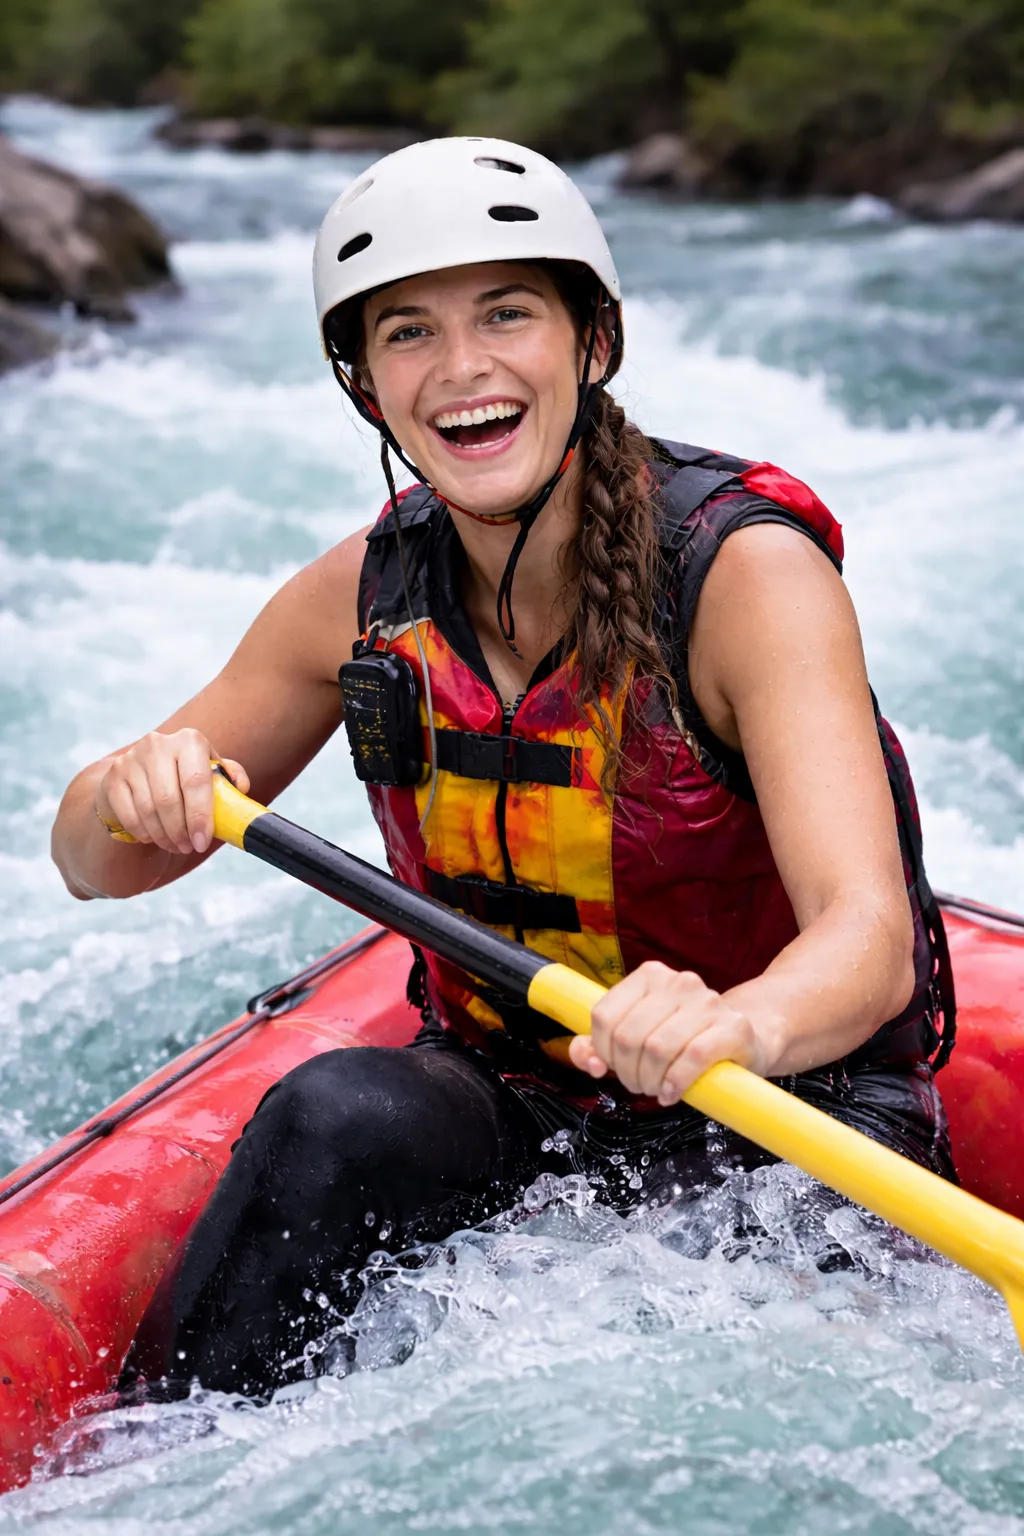
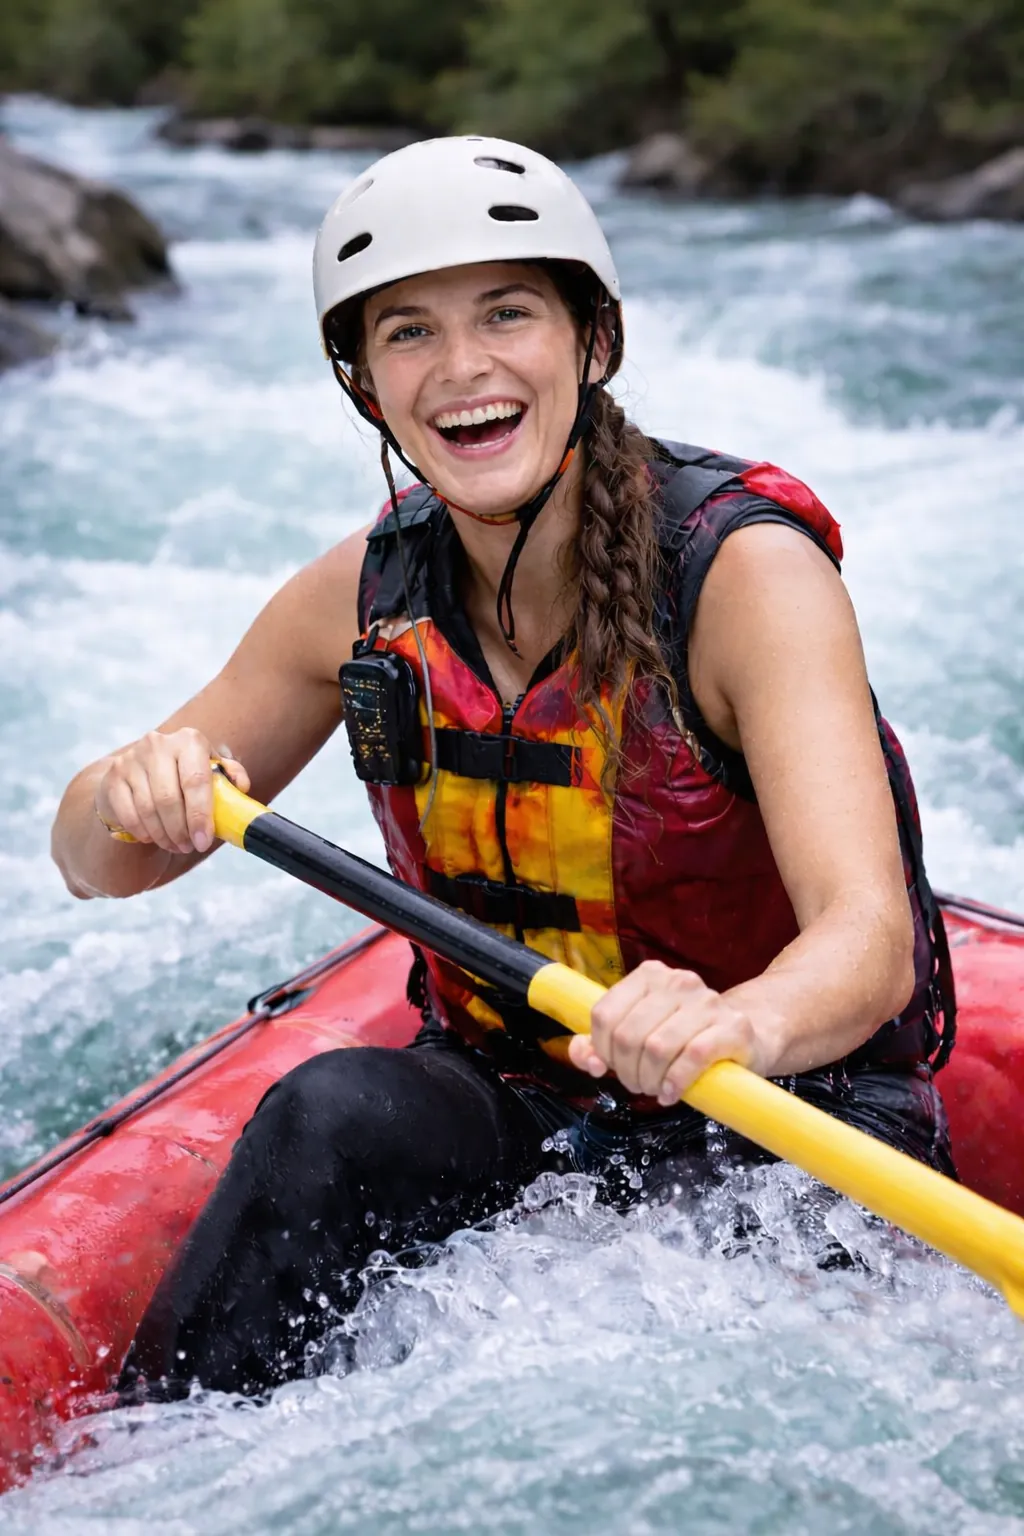
changes contact

diff --git a/wwr/contact.html b/wwr/contact.html
@@ -29,7 +29,7 @@
 
     <main>
         <section class="contact-header">
-            <h1>Contact Deepwater Rafting Club</h1>
+            <h1>Contact Us | Dry Oar Rafting</h1>
             <p>
                 123 Main River Street<br />
                 Rancagua, Chile<br />
@@ -117,7 +117,8 @@
     </main>
     <footer>
         <p>Dry Oar &copy; 2026 - Pablo Chumba</p>
-        <div class="socialmedia">
+
+        <nav class="socialmedia">
             <a href="https://facebook.com" target="_blank" rel="noopener">
                 <img src="images/facebook.png" alt="Facebook icon">
             </a>
@@ -129,9 +130,9 @@
             <a href="https://instagram.com" target="_blank" rel="noopener">
                 <img src="images/instagram-icon.png" alt="Instagram icon">
             </a>
-        </div>
-
+        </nav>
     </footer>
+
 </body>
 
 </html>
